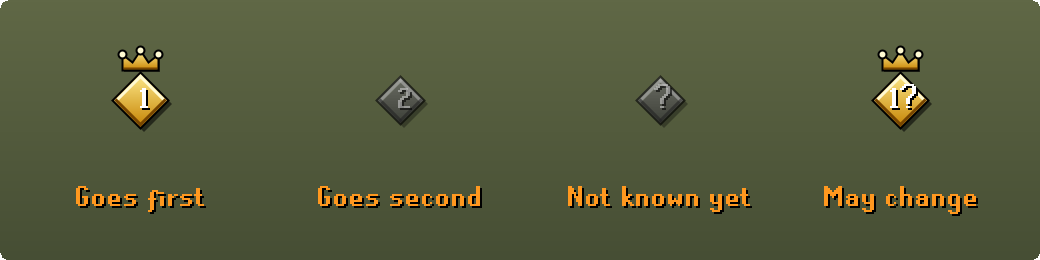
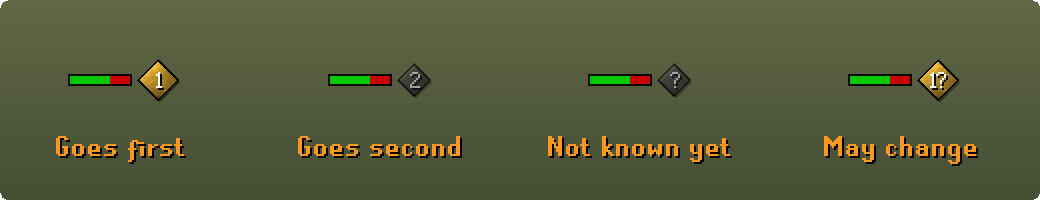
Diamonds cut from the game's own tab stone, beside the health bar, number centred on its outline
The diamond uses sprite 1030, the stone behind a selected side panel tab,
recoloured gold for whoever goes first and grey for the rest, with the
game's black edge. It sits right of the health bar, where the game draws
nothing, so prayers, skulls and overheads are never covered. The number
is centred on the glyph's own outline, so ? sits in the middle.

diff --git a/src/main/java/com/drthomasager/pid/PidIndicatorOverlay.java b/src/main/java/com/drthomasager/pid/PidIndicatorOverlay.java
@@ -1,48 +1,63 @@
 package com.drthomasager.pid;
 
-import java.awt.BasicStroke;
+import java.awt.AlphaComposite;
 import java.awt.Color;
+import java.awt.Composite;
 import java.awt.Dimension;
-import java.awt.FontMetrics;
+import java.awt.Font;
 import java.awt.Graphics2D;
 import java.awt.Polygon;
 import java.awt.RenderingHints;
+import java.awt.Shape;
+import java.awt.font.GlyphVector;
+import java.awt.geom.Rectangle2D;
+import java.awt.image.BufferedImage;
+import java.util.EnumMap;
+import java.util.Map;
 import javax.inject.Inject;
 import net.runelite.api.Client;
 import net.runelite.api.Player;
 import net.runelite.api.Point;
+import net.runelite.client.game.SpriteManager;
 import net.runelite.client.ui.FontManager;
 import net.runelite.client.ui.overlay.Overlay;
 import net.runelite.client.ui.overlay.OverlayLayer;
 import net.runelite.client.ui.overlay.OverlayPosition;
 
 /**
- * A diamond over your head and over your opponent's. Gold with a crown and a
- * 1 on whoever goes first, grey with a 2 on whoever goes second, grey with a ?
- * while nobody knows yet. Once the game may hand PID over they read 1? and 2?.
+ * A small diamond beside each fighter's health bar, cut from the game's own
+ * stone texture (the blob behind a selected side panel tab). Gold with a 1 on
+ * whoever goes first, grey with a 2 on whoever goes second, grey with a ?
+ * while nobody knows yet, and 1? and 2? once the game may hand PID over. It
+ * sits to the right of the health bar, where the game draws nothing, so the
+ * prayer icon, skull and overheads are never covered or moved.
  */
 class PidIndicatorOverlay extends Overlay
 {
-	private static final Color GOLD = new Color(255, 200, 0);
-	private static final Color GOLD_EDGE = new Color(255, 230, 110);
-	private static final Color GOLD_DARK = new Color(110, 70, 0);
-	private static final Color GREY = new Color(120, 120, 120, 200);
-	private static final Color GREY_EDGE = new Color(60, 60, 60, 220);
-	private static final Color GREY_TEXT = new Color(225, 225, 225);
-	/** How far above the head the diamond sits, clear of the health bar. */
-	private static final int HEIGHT_ABOVE = 80;
-	private static final int R = 14;
+	/** The selected side panel tab's stone, a 33 by 36 sprite. */
+	static final int STONE_SPRITE = 1030;
+	private static final int R_FIRST = 10;
+	private static final int R_OTHER = 8;
+	/** The game's health bar sits this far above the point 15 units over the head. */
+	private static final int BAR_Y = -15;
+	/** Half the health bar's width, plus a gap. */
+	private static final int BAR_RIGHT = 19;
+
+	enum State { FIRST, SECOND, UNKNOWN }
 
 	private final Client client;
 	private final PidIndicatorPlugin plugin;
 	private final PidIndicatorConfig config;
+	private final SpriteManager spriteManager;
+	private final Map<State, BufferedImage> textures = new EnumMap<>(State.class);
 
 	@Inject
-	PidIndicatorOverlay(Client client, PidIndicatorPlugin plugin, PidIndicatorConfig config)
+	PidIndicatorOverlay(Client client, PidIndicatorPlugin plugin, PidIndicatorConfig config, SpriteManager spriteManager)
 	{
 		this.client = client;
 		this.plugin = plugin;
 		this.config = config;
+		this.spriteManager = spriteManager;
 		setPosition(OverlayPosition.DYNAMIC);
 		setLayer(OverlayLayer.ABOVE_SCENE);
 	}
@@ -73,121 +88,124 @@ class PidIndicatorOverlay extends Overlay
 		return null;
 	}
 
-	enum State { FIRST, SECOND, UNKNOWN }
+	private BufferedImage texture(State s)
+	{
+		BufferedImage t = textures.get(s);
+		if (t == null)
+		{
+			BufferedImage stone = spriteManager.getSprite(STONE_SPRITE, 0);
+			if (stone == null)
+			{
+				return null;
+			}
+			t = tint(stone, s);
+			textures.put(s, t);
+		}
+		return t;
+	}
 
 	private void diamond(Graphics2D g, Player p, State s, boolean mayChange)
 	{
-		Point pt = p.getCanvasTextLocation(g, "", p.getLogicalHeight() + HEIGHT_ABOVE);
+		Point pt = p.getCanvasTextLocation(g, "", p.getLogicalHeight() + 15);
 		if (pt == null)
 		{
 			return;
 		}
-		drawDiamond(g, pt.getX(), pt.getY(), s, mayChange);
+		int r = s == State.FIRST ? R_FIRST : R_OTHER;
+		drawDiamond(g, texture(s), pt.getX() + BAR_RIGHT + r, pt.getY() + BAR_Y, r, s, mayChange);
 		if (config.showAnimationIds() && p.getAnimation() >= 0)
 		{
 			String id = "animation " + p.getAnimation();
 			g.setFont(FontManager.getRunescapeSmallFont());
-			int tx = pt.getX() - g.getFontMetrics().stringWidth(id) / 2;
+			int tx = pt.getX() + BAR_RIGHT;
 			g.setColor(Color.BLACK);
-			g.drawString(id, tx + 1, pt.getY() + R + 15);
+			g.drawString(id, tx + 1, pt.getY() + BAR_Y + r + 13);
 			g.setColor(Color.CYAN);
-			g.drawString(id, tx, pt.getY() + R + 14);
+			g.drawString(id, tx, pt.getY() + BAR_Y + r + 12);
 		}
 	}
 
 	/**
-	 * The diamond itself, centred on x, y, with a ? after the number when PID
-	 * may change. Drawn the way the game draws its own icons: a shaded face, a
-	 * light upper edge and a dark lower one, a black outline and a soft shadow.
-	 * Whoever goes second, or a diamond nobody can read yet, is smaller, darker
-	 * and half see-through, so it stays out of the way.
+	 * The game's stone, recoloured: its light and dark kept as they are, its
+	 * colour gold for whoever goes first and grey for everyone else.
 	 */
-	static void drawDiamond(Graphics2D g, int x, int y, State s, boolean mayChange)
+	static BufferedImage tint(BufferedImage stone, State s)
+	{
+		int[] base = s == State.FIRST ? new int[]{255, 196, 60} : new int[]{150, 150, 150};
+		double k = s == State.FIRST ? 2.2 : 1.25;
+		int w = stone.getWidth();
+		int h = stone.getHeight();
+		BufferedImage out = new BufferedImage(w, h, BufferedImage.TYPE_INT_ARGB);
+		for (int x = 0; x < w; x++)
+		{
+			for (int y = 0; y < h; y++)
+			{
+				int p = stone.getRGB(x, y);
+				int a = p >>> 24;
+				double l = (0.3 * ((p >> 16) & 255) + 0.59 * ((p >> 8) & 255) + 0.11 * (p & 255)) / 128.0;
+				int r = (int) Math.min(255, base[0] * l * k);
+				int gr = (int) Math.min(255, base[1] * l * k);
+				int b = (int) Math.min(255, base[2] * l * k);
+				out.setRGB(x, y, (a << 24) | (r << 16) | (gr << 8) | b);
+			}
+		}
+		return out;
+	}
+
+	/**
+	 * The diamond centred on x, y: the stone texture cut to shape with the
+	 * game's black edge and a faint shadow, and its number centred on the
+	 * glyph's own outline. Whoever goes second, or a diamond not read yet, is
+	 * half see-through so it stays out of the way.
+	 */
+	static void drawDiamond(Graphics2D g, BufferedImage tex, int x, int y, int r, State s, boolean mayChange)
 	{
 		Object aa = g.getRenderingHint(RenderingHints.KEY_ANTIALIASING);
-		Object textAa = g.getRenderingHint(RenderingHints.KEY_TEXT_ANTIALIASING);
-		java.awt.Composite comp = g.getComposite();
-		g.setRenderingHint(RenderingHints.KEY_ANTIALIASING, RenderingHints.VALUE_ANTIALIAS_ON);
+		Composite comp = g.getComposite();
+		Shape clip = g.getClip();
 		boolean first = s == State.FIRST;
-		int r = first ? R : R - 2;
 		if (!first)
 		{
-			g.setComposite(java.awt.AlphaComposite.getInstance(java.awt.AlphaComposite.SRC_OVER, 0.6f));
+			g.setComposite(AlphaComposite.getInstance(AlphaComposite.SRC_OVER, 0.65f));
 		}
-		Color top = first ? new Color(255, 236, 140) : new Color(140, 140, 140);
-		Color bottom = first ? new Color(196, 128, 0) : new Color(62, 62, 62);
-		Color light = first ? new Color(255, 250, 210) : new Color(175, 175, 175);
-		Color dark = first ? new Color(120, 70, 0) : new Color(35, 35, 35);
-
 		Polygon face = new Polygon(new int[]{x, x + r, x, x - r}, new int[]{y - r, y, y + r, y}, 4);
-		Polygon shadow = new Polygon(new int[]{x + 2, x + r + 2, x + 2, x - r + 2}, new int[]{y - r + 2, y + 2, y + r + 2, y + 2}, 4);
-		g.setColor(new Color(0, 0, 0, 140));
-		g.fillPolygon(shadow);
-		g.setPaint(new java.awt.GradientPaint(x, y - r, top, x, y + r, bottom));
+		g.setRenderingHint(RenderingHints.KEY_ANTIALIASING, RenderingHints.VALUE_ANTIALIAS_OFF);
+		g.setColor(new Color(0, 0, 0, 110));
+		g.translate(1, 1);
 		g.fillPolygon(face);
-		// the bevel: light on the upper edges, dark on the lower
-		g.setStroke(new BasicStroke(1.5f));
-		g.setColor(light);
-		g.drawLine(x - r + 2, y, x, y - r + 2);
-		g.drawLine(x, y - r + 2, x + r - 2, y);
-		g.setColor(dark);
-		g.drawLine(x - r + 2, y, x, y + r - 2);
-		g.drawLine(x, y + r - 2, x + r - 2, y);
-		g.setStroke(new BasicStroke(1f));
+		g.translate(-1, -1);
+		if (tex != null)
+		{
+			g.clip(face);
+			g.drawImage(tex, x - r - 2, y - r - 2, 2 * r + 4, 2 * r + 4, null);
+			g.setClip(clip);
+		}
+		else
+		{
+			g.setColor(first ? new Color(214, 160, 40) : new Color(95, 95, 95));
+			g.fillPolygon(face);
+		}
 		g.setColor(Color.BLACK);
 		g.drawPolygon(face);
 
-		if (first)
-		{
-			drawCrown(g, x, y - r - 1);
-		}
-
-		// the number in the game's own bold font, drawn sharp as the game draws it
-		g.setRenderingHint(RenderingHints.KEY_TEXT_ANTIALIASING, RenderingHints.VALUE_TEXT_ANTIALIAS_OFF);
-		g.setFont(FontManager.getRunescapeBoldFont());
 		String n = first ? "1" : s == State.SECOND ? "2" : "?";
 		if (mayChange && s != State.UNKNOWN)
 		{
 			n = n + "?";
 		}
-		FontMetrics fm = g.getFontMetrics();
-		int tx = x - fm.stringWidth(n) / 2 + 1;
-		int ty = y + fm.getAscent() / 2 - 1;
+		Font f = FontManager.getRunescapeSmallFont();
+		GlyphVector gv = f.createGlyphVector(g.getFontRenderContext(), n);
+		Rectangle2D vb = gv.getVisualBounds();
+		int tx = (int) Math.round(x - vb.getX() - vb.getWidth() / 2.0);
+		int ty = (int) Math.round(y - vb.getY() - vb.getHeight() / 2.0);
+		g.setRenderingHint(RenderingHints.KEY_TEXT_ANTIALIASING, RenderingHints.VALUE_TEXT_ANTIALIAS_OFF);
+		g.setFont(f);
 		g.setColor(Color.BLACK);
 		g.drawString(n, tx + 1, ty + 1);
-		g.setColor(first ? Color.WHITE : new Color(200, 200, 200));
+		g.setColor(first ? Color.WHITE : new Color(220, 220, 220));
 		g.drawString(n, tx, ty);
 
 		g.setComposite(comp);
 		g.setRenderingHint(RenderingHints.KEY_ANTIALIASING, aa == null ? RenderingHints.VALUE_ANTIALIAS_DEFAULT : aa);
-		g.setRenderingHint(RenderingHints.KEY_TEXT_ANTIALIASING, textAa == null ? RenderingHints.VALUE_TEXT_ANTIALIAS_DEFAULT : textAa);
-	}
-
-	/** A small shaded crown resting on (x, base), three points each with a ball. */
-	private static void drawCrown(Graphics2D g, int x, int base)
-	{
-		int w = 9;
-		int h = 8;
-		Polygon crown = new Polygon(
-			new int[]{x - w, x - w, x - w / 2, x, x + w / 2, x + w, x + w},
-			new int[]{base, base - h, base - h / 2, base - h - 2, base - h / 2, base - h, base}, 7);
-		Polygon shadow = new Polygon(crown.xpoints.clone(), crown.ypoints.clone(), crown.npoints);
-		shadow.translate(1, 1);
-		g.setColor(new Color(0, 0, 0, 140));
-		g.fillPolygon(shadow);
-		g.setPaint(new java.awt.GradientPaint(x, base - h - 2, new Color(255, 240, 150), x, base, new Color(200, 130, 0)));
-		g.fillPolygon(crown);
-		g.setColor(new Color(120, 70, 0));
-		g.drawLine(x - w + 1, base - 1, x + w - 1, base - 1);
-		g.setColor(Color.BLACK);
-		g.drawPolygon(crown);
-		int[][] balls = {{x - w, base - h}, {x, base - h - 2}, {x + w, base - h}};
-		for (int[] b : balls)
-		{
-			g.setColor(new Color(255, 250, 210));
-			g.fillOval(b[0] - 2, b[1] - 2, 4, 4);
-			g.setColor(Color.BLACK);
-			g.drawOval(b[0] - 2, b[1] - 2, 4, 4);
-		}
 	}
 }

diff --git a/README.md b/README.md
@@ -38,14 +38,14 @@ I was watching Ian ([PureSpam](https://www.youtube.com/@PureSpam)) and he was co
 
 ## What you'll see
 
-A diamond floats over your head and over your opponent's. No words, no numbers to read.
+A small diamond sits beside your health bar and your opponent's, cut from the same stone as the game's own tab buttons. It never covers your prayers, skull or overheads.
 
 | | Over a player | What it means | What to do |
 |:---:|---|---|---|
-| <img src="docs/state-first.png" width="140"> | **Gold diamond with a crown and a 1** | This player goes first. Their hits land first and their steps happen first. | If it's you, push. If it's them, play safe. |
-| <img src="docs/state-second.png" width="140"> | **Grey diamond with a 2** | This player goes second. | If it's you, avoid even trades and wait. |
+| <img src="docs/state-first.png" width="140"> | **Gold stone diamond with a 1**, beside the health bar | This player goes first. Their hits land first and their steps happen first. | If it's you, push. If it's them, play safe. |
+| <img src="docs/state-second.png" width="140"> | **Grey stone diamond with a 2** | This player goes second. | If it's you, avoid even trades and wait. |
 | <img src="docs/state-may-change.png" width="140"> | **1? and 2?** | The game can hand PID to the other player at any moment. | Watch the crown. It might jump. |
-| <img src="docs/state-unknown.png" width="140"> | **Grey diamond with a ?** | Nothing has been read yet. | Attack, and it will know. |
+| <img src="docs/state-unknown.png" width="140"> | **Grey stone diamond with a ?** | Nothing has been read yet. | Attack, and it will know. |
 
 ---
 
